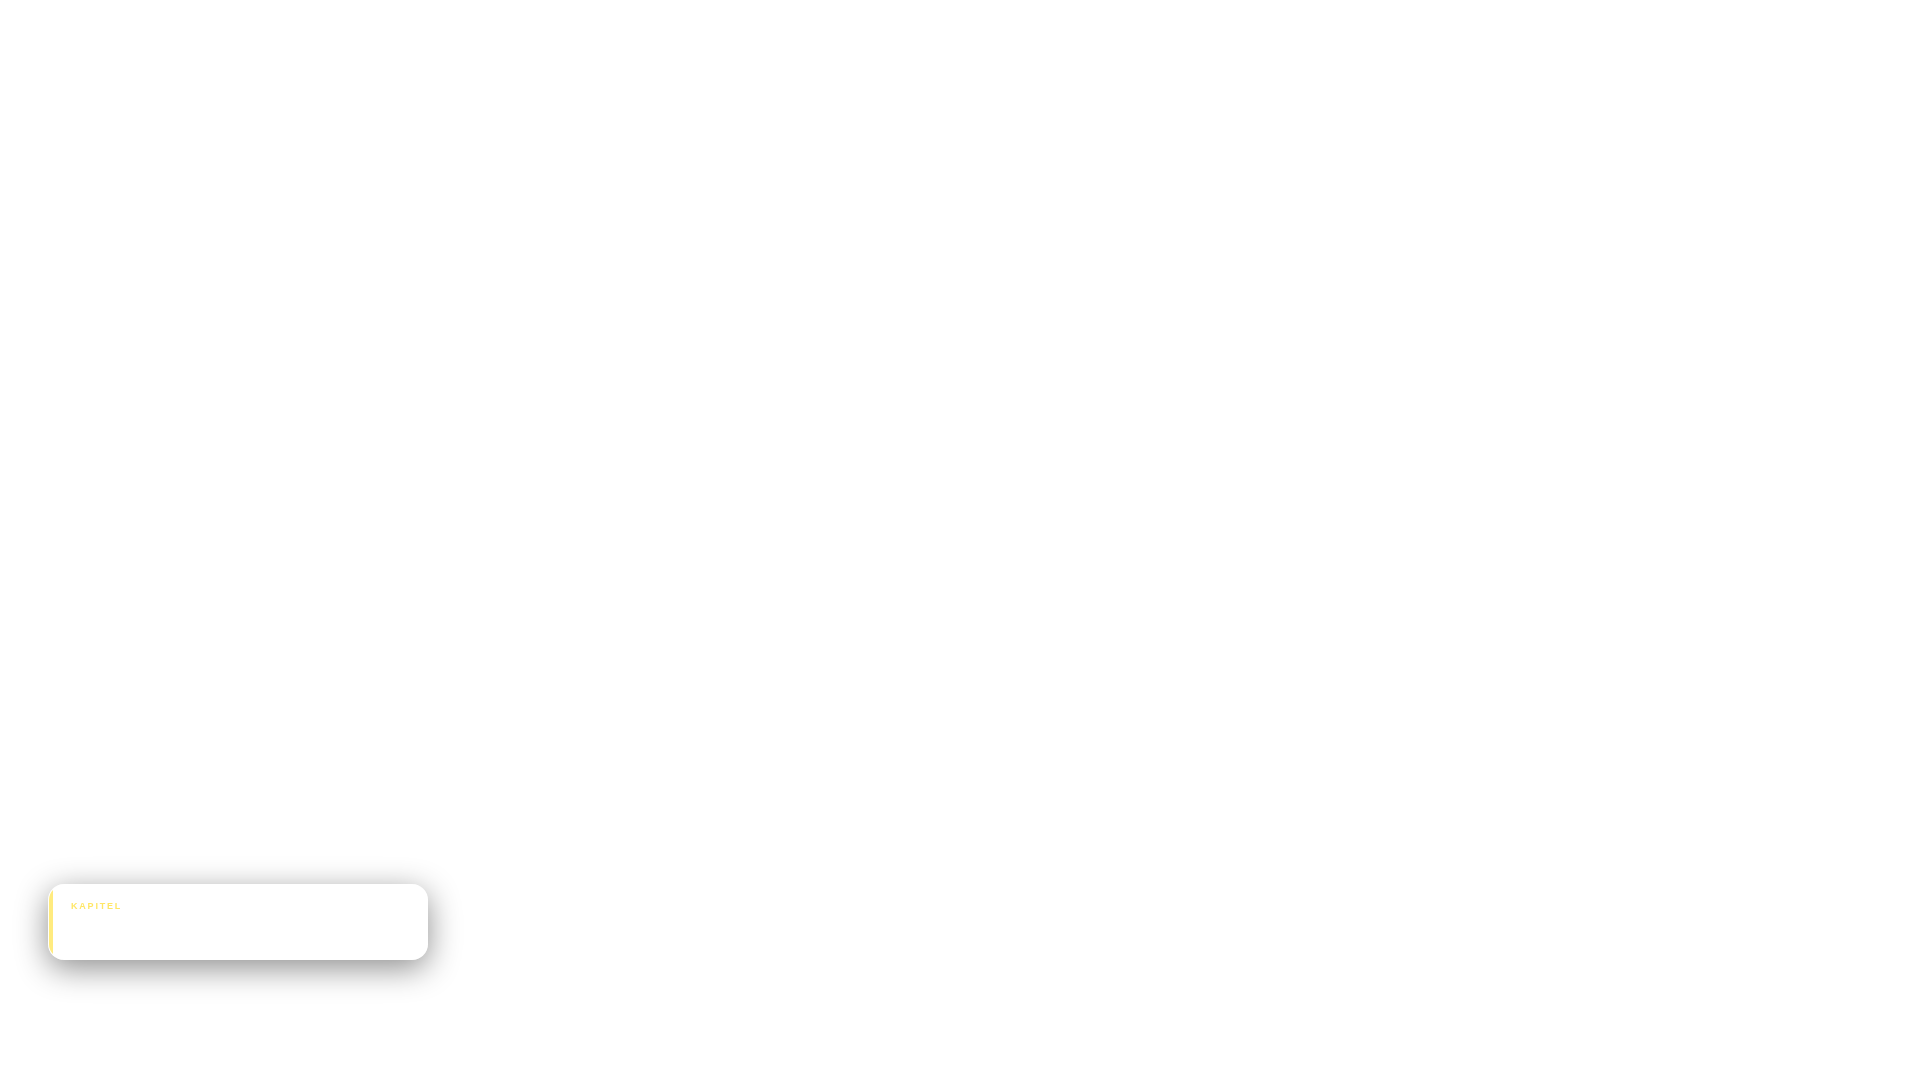
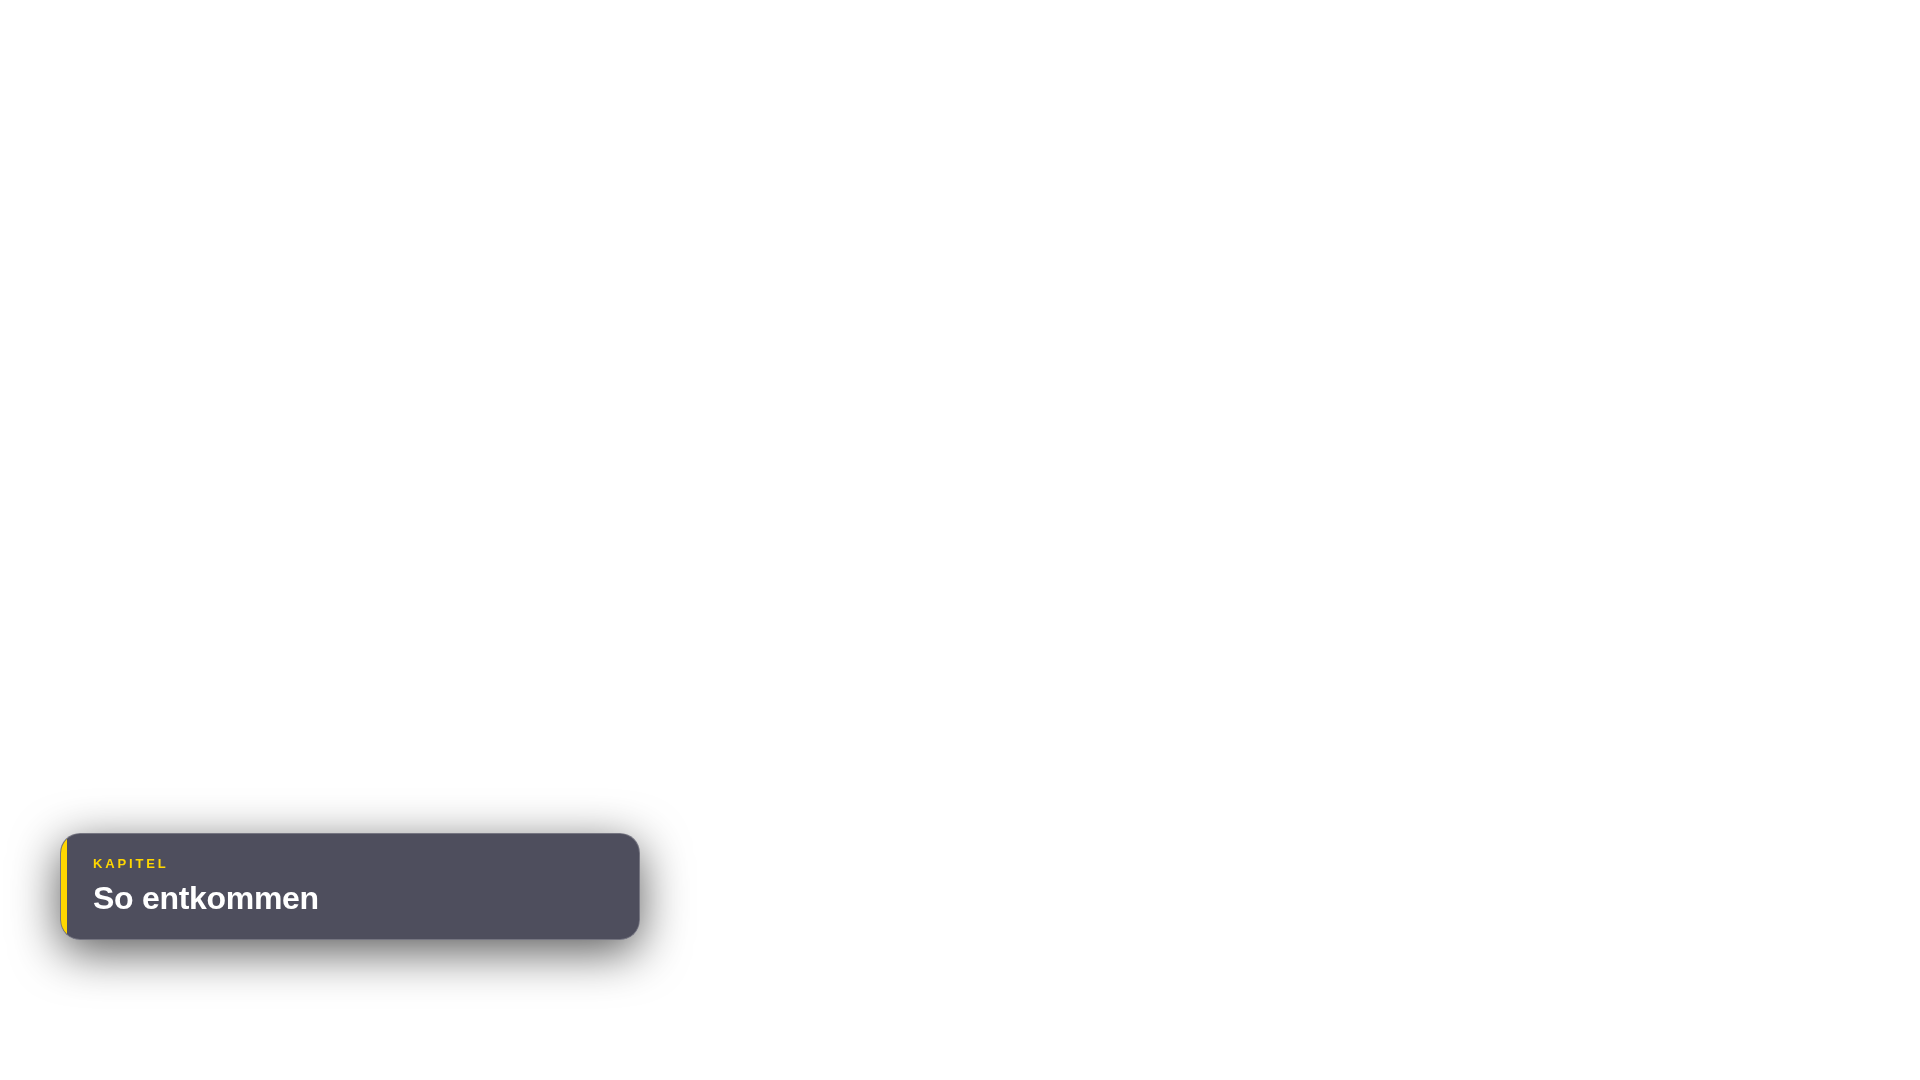
fix: intro at 13s, bigger cards, chapter cards visible, remove swoosh
- Intro overlay moved to 13s–18.5s (after scene 1+2); blur+mute scoped to that window
- Chapter marker cards: solid dark background, gold stripe, 32px title font (were invisible before)
- All MG cards: width 460→680px, value font 56→82px, key text 17→24px
- Swoosh sound effects removed entirely

https://claude.ai/code/session_01YVKjxmuvXQCEjxJCiHuiUD

Changed region(s): [[0.0, 0.7333, 0.3438, 0.9167]]

diff --git a/projects/flughafen-de/build-video.py b/projects/flughafen-de/build-video.py
@@ -3,9 +3,8 @@
 Assembles the final flughafen-de video using FFmpeg.
 
 Features:
-  - Channel intro overlay on blurred scene 1 (0–5.5s, no voiceover)
+  - Channel intro overlay on blurred scene (13s–18.5s, voice muted)
   - Motion graphics cards + chapter marker cards
-  - Swoosh sound effects at chapter transitions
   - Background music with auto-ducking sidechain compression
   - Captions (word-level gold highlight) — activates when word-timings.json present
 
@@ -26,19 +25,18 @@ OUT_VIDEO  = str(HERE / "output" / (Path(SRC_VIDEO).stem + "-final.mp4"))
 MANIFEST   = HERE / "card-manifest.json"
 WORDS_JSON = HERE / "word-timings.json"
 INTRO_VID  = HERE / "intro.mp4"
-SWOOSH     = HERE / "swoosh.mp3"
 MUSIC      = SHARED / "music" / "sleep-music-chris-haugen.mp3"
 
-# Seconds at which swoosh sounds play (chapter transitions)
-SWOOSH_TIMES = [5.5, 100.0, 112.0, 122.0]
-INTRO_END    = 5.5   # intro.mp4 duration
-MUSIC_VOL    = 0.14
+INTRO_START = 13.0   # intro begins after scene 1 + scene 2
+INTRO_DUR   = 5.5    # intro.mp4 duration
+INTRO_END   = INTRO_START + INTRO_DUR   # 18.5
+MUSIC_VOL   = 0.14
 
 Path(OUT_VIDEO).parent.mkdir(parents=True, exist_ok=True)
 
 # ── Validate inputs ───────────────────────────────────────────────────────────
 for label, path in [("Source video", SRC_VIDEO), ("Intro", INTRO_VID),
-                    ("Swoosh", SWOOSH), ("Music", MUSIC), ("Manifest", MANIFEST)]:
+                    ("Music", MUSIC), ("Manifest", MANIFEST)]:
     if not Path(path).exists():
         print(f"ERROR: {label} not found: {path}")
         sys.exit(1)
@@ -48,12 +46,13 @@ probe = subprocess.run(
     ["ffprobe", "-v", "quiet", "-print_format", "json", "-show_streams", "-show_format", SRC_VIDEO],
     capture_output=True, text=True
 )
-probe_data  = json.loads(probe.stdout)
+probe_data   = json.loads(probe.stdout)
 video_stream = next(s for s in probe_data["streams"] if s["codec_type"] == "video")
-WIDTH       = video_stream["width"]
-HEIGHT      = video_stream["height"]
-DURATION    = float(probe_data["format"]["duration"])
+WIDTH        = video_stream["width"]
+HEIGHT       = video_stream["height"]
+DURATION     = float(probe_data["format"]["duration"])
 print(f"Source : {Path(SRC_VIDEO).name}  {WIDTH}×{HEIGHT}  {DURATION:.1f}s")
+print(f"Intro  : {INTRO_START}s → {INTRO_END}s")
 
 # ── Captions (optional) ───────────────────────────────────────────────────────
 use_captions = WORDS_JSON.exists()
@@ -71,7 +70,6 @@ else:
 manifest = json.loads(MANIFEST.read_text())
 cards     = manifest["cards"]
 
-# Resolve relative card paths against project root
 for c in cards:
     p = Path(c["path"])
     if not p.is_absolute():
@@ -82,26 +80,29 @@ for c in cards:
 #   [1]  intro.mp4
 #   [2…N] card PNGs
 #   [N+1] background music
-#   [N+2] swoosh
 inputs = ["-i", SRC_VIDEO, "-i", str(INTRO_VID)]
 for c in cards:
     inputs += ["-i", c["path"]]
-music_idx  = 2 + len(cards)
-swoosh_idx = music_idx + 1
-inputs += ["-i", str(MUSIC), "-i", str(SWOOSH)]
+music_idx = 2 + len(cards)
+inputs += ["-i", str(MUSIC)]
 
 # ── Video filter chain ────────────────────────────────────────────────────────
 vf = []
 
-# 1. Split original: one for blur overlay, one as clean base
+# 1. Blur the source video only during the intro window
 vf.append("[0:v]split=2[v_orig][v_toblur]")
 vf.append("[v_toblur]gblur=sigma=25[v_blurred]")
-# Overlay blurred on original only during intro window → vbase
-vf.append(f"[v_orig][v_blurred]overlay=0:0:enable='lte(t,{INTRO_END})'[v_base]")
+vf.append(
+    f"[v_orig][v_blurred]overlay=0:0:"
+    f"enable='between(t,{INTRO_START},{INTRO_END})'[v_base]"
+)
 
-# 2. Scale intro from 4K → source resolution, overlay during intro
+# 2. Scale intro → source resolution, overlay during intro window
 vf.append(f"[1:v]scale={WIDTH}:{HEIGHT}[v_intro]")
-vf.append(f"[v_base][v_intro]overlay=0:0:enable='lte(t,{INTRO_END})'[v_after_intro]")
+vf.append(
+    f"[v_base][v_intro]overlay=0:0:"
+    f"enable='between(t,{INTRO_START},{INTRO_END})'[v_after_intro]"
+)
 
 # 3. ASS captions (if present)
 if use_captions:
@@ -112,9 +113,9 @@ else:
 
 # 4. Card overlays
 for idx, card in enumerate(cards):
-    card_stream = idx + 2           # input index: 0=src, 1=intro, 2…=cards
-    is_last = (idx == len(cards) - 1)
-    out_label = "[vout]" if is_last else f"[v{idx}]"
+    card_stream = idx + 2
+    is_last     = (idx == len(cards) - 1)
+    out_label   = "[vout]" if is_last else f"[v{idx}]"
     vf.append(
         f"{current}[{card_stream}:v]overlay=0:0:"
         f"enable='between(t,{card['inTime']},{card['outTime']})':"
@@ -126,10 +127,12 @@ for idx, card in enumerate(cards):
 af = []
 fade_dur = min(3.0, DURATION * 0.03)
 
-# Mute source audio during intro
-af.append(f"[0:a]volume=volume='if(lt(t,{INTRO_END}),0,1)'[voice]")
+# Mute voice during intro window only
+af.append(
+    f"[0:a]volume=volume='if(between(t,{INTRO_START},{INTRO_END}),0,1)'[voice]"
+)
 
-# Background music: loop → trim → fade → volume
+# Background music: loop → trim → fade in/out → volume
 af.append(
     f"[{music_idx}:a]aloop=loop=-1:size=2147483647,"
     f"atrim=duration={DURATION},"
@@ -138,28 +141,15 @@ af.append(
     f"volume={MUSIC_VOL}[bg_raw]"
 )
 
-# Sidechain compress music against voice
+# Sidechain compress music under voice
 af.append("[voice]asplit=2[voice_out][voice_sc]")
 af.append(
     "[bg_raw][voice_sc]sidechaincompress="
     "threshold=0.015:ratio=4:attack=200:release=1200:makeup=1[bg_ducked]"
 )
 
-# Swoosh sounds at each chapter transition
-n_swoosh = len(SWOOSH_TIMES)
-af.append(f"[{swoosh_idx}:a]asplit={n_swoosh}" + "".join(f"[sw_raw{i}]" for i in range(n_swoosh)))
-for i, t in enumerate(SWOOSH_TIMES):
-    delay_ms = int(t * 1000)
-    af.append(f"[sw_raw{i}]adelay={delay_ms}|{delay_ms}[sw{i}]")
-
-# Mix all audio streams
-sw_labels = "".join(f"[sw{i}]" for i in range(n_swoosh))
-n_inputs  = 2 + n_swoosh  # voice_out + bg_ducked + swooshes
-af.append(
-    f"[voice_out][bg_ducked]{sw_labels}"
-    f"amix=inputs={n_inputs}:duration=first:weights="
-    + " ".join(["1"] * n_inputs) + "[audio_out]"
-)
+# Final mix
+af.append("[voice_out][bg_ducked]amix=inputs=2:duration=first:weights=1 1[audio_out]")
 
 # ── Assemble FFmpeg command ───────────────────────────────────────────────────
 filter_complex = ";".join(vf + af)
@@ -182,7 +172,7 @@ cmd = (
     ]
 )
 
-print(f"\nRunning FFmpeg (high-quality encode)...")
+print(f"\nRunning FFmpeg...")
 print(f"Output → {OUT_VIDEO}\n")
 
 result = subprocess.run(cmd, capture_output=True, text=True)
